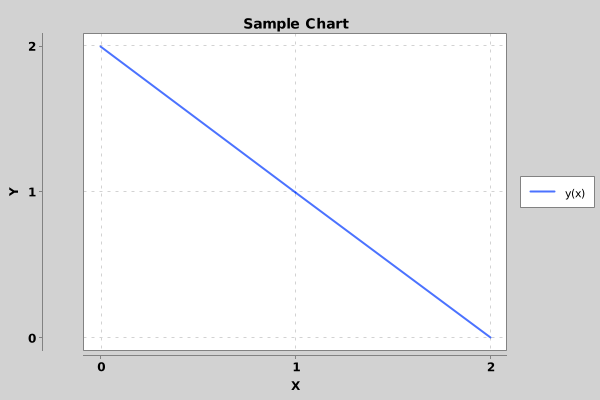
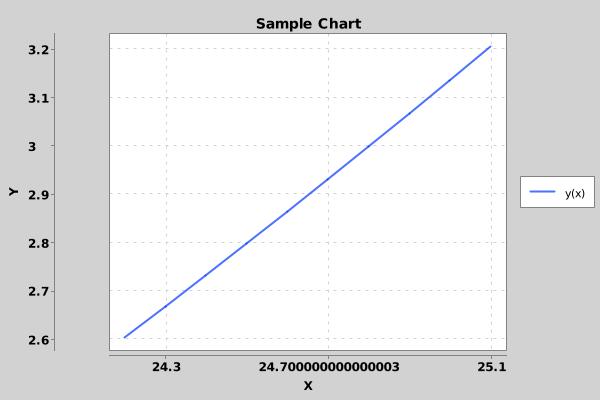
sort files. draw chart of S0 movement.

diff --git a/src/main/java/com/olexyn/abricore/App.java b/src/main/java/com/olexyn/abricore/App.java
@@ -7,6 +7,8 @@ import org.knowm.xchart.SwingWrapper;
 import org.knowm.xchart.XYChart;
 
 import java.io.IOException;
+import java.util.ArrayList;
+import java.util.List;
 
 /**
  * Hello world!
@@ -20,32 +22,37 @@ public class App {
     static double sigma = 0.38; // volatility %p.a.
 
     public static void main(String[] args) throws IOException {
-        System.out.println("Hello World!");
-        double part1 = Math.log(S0 / X);
-        double part2 = Math.pow(sigma, 2);
-        double part3 = t * (r - q + part2);
-        double part4 = sigma * Math.sqrt(t);
-        double d1 = (part1 + part3) / part4;
 
-        double d2 = d1 - part4;
-
-        NormalDistribution normalDistribution = new NormalDistribution();
-        double n1 = normalDistribution.cumulativeProbability(d1);
-        double n2 = normalDistribution.cumulativeProbability(d2);
-
-        double part5 = Math.exp(-q*t);
-        double part6 = S0 * part5 * n1;
-
-        double part7 = Math.exp(-r*t);
-        double part8 = X * part7 * n2;
-
-        double C = part6 - part8;
-
-        int br = 0;
+        OptionDto optionDto = new OptionDto();
+        optionDto.setS0(24.6);
+        optionDto.setX(23);
+        optionDto.setT(0.3);
+        optionDto.setR(0);
+        optionDto.setQ(0);
+        optionDto.setSigma(0.38);
 
 
-        double[] xData = new double[] { 0.0, 1.0, 2.0 };
-        double[] yData = new double[] { 2.0, 1.0, 0.0 };
+        int points = 10;
+        double delta = 0.1;
+
+        double[] xData = new double[points];
+        double[] yData = new double[points];
+
+        double startPoint = optionDto.getS0() + points * delta / 2;
+
+        for(int i = 0 ; i<points; i++){
+
+            xData[i] = startPoint - i * delta;
+            if(xData[i] >=0){
+                optionDto.setS0(xData[i]);
+                yData[i] = new CallCalculator(optionDto).getPrice();
+            }else{
+                xData[i] = 0;
+                yData[i] = 0;
+            }
+        }
+
+
 
 // Create Chart
         XYChart chart = QuickChart.getChart("Sample Chart", "X", "Y", "y(x)", xData, yData);

diff --git a/src/main/java/com/olexyn/abricore/CallCalculator.java b/src/main/java/com/olexyn/abricore/CallCalculator.java
@@ -1,3 +1,34 @@
 package com.olexyn.abricore;
 
-public class CallCalculator {}
+import org.apache.commons.math3.distribution.NormalDistribution;
+
+public class CallCalculator {
+
+    private double price;
+
+    public CallCalculator(OptionDto optionDto){
+        double part1 = Math.log(optionDto.getS0() / optionDto.getX());
+        double part2 = Math.pow(optionDto.getSigma(), 2);
+        double part3 = optionDto.getT() * (optionDto.getR() - optionDto.getQ() + part2);
+        double part4 = optionDto.getSigma() * Math.sqrt(optionDto.getT());
+        double d1 = (part1 + part3) / part4;
+
+        double d2 = d1 - part4;
+
+        NormalDistribution normalDistribution = new NormalDistribution();
+        double n1 = normalDistribution.cumulativeProbability(d1);
+        double n2 = normalDistribution.cumulativeProbability(d2);
+
+        double part5 = Math.exp(-optionDto.getQ()*optionDto.getT());
+        double part6 = optionDto.getS0() * part5 * n1;
+
+        double part7 = Math.exp(-optionDto.getR()*optionDto.getT());
+        double part8 = optionDto.getX() * part7 * n2;
+
+        this.price = part6 - part8;
+    }
+
+    public double getPrice() {
+        return price;
+    }
+}

diff --git a/src/main/java/com/olexyn/abricore/OptionDto.java b/src/main/java/com/olexyn/abricore/OptionDto.java
@@ -1,3 +1,60 @@
 package com.olexyn.abricore;
 
-public class OptionDto {}
+public class OptionDto {
+
+    private double S0 = 24.6; // asset price
+    private double X = 23; // strike
+    private double t = 0.3; // time % of year
+    private double r = 0; // risk free interest %p.a.
+    private double q = 0; // dividend yield %p.a.
+    private double sigma = 0.38; // volatility %p.a.
+
+
+    public double getS0() {
+        return S0;
+    }
+
+    public void setS0(double s0) {
+        S0 = s0;
+    }
+
+    public double getX() {
+        return X;
+    }
+
+    public void setX(double x) {
+        X = x;
+    }
+
+    public double getT() {
+        return t;
+    }
+
+    public void setT(double t) {
+        this.t = t;
+    }
+
+    public double getR() {
+        return r;
+    }
+
+    public void setR(double r) {
+        this.r = r;
+    }
+
+    public double getQ() {
+        return q;
+    }
+
+    public void setQ(double q) {
+        this.q = q;
+    }
+
+    public double getSigma() {
+        return sigma;
+    }
+
+    public void setSigma(double sigma) {
+        this.sigma = sigma;
+    }
+}
